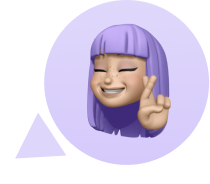
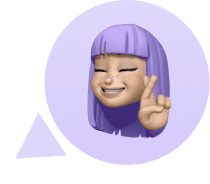
feature pointer

diff --git a/src/styles/_feature.css b/src/styles/_feature.css
@@ -50,7 +50,7 @@
         top: 24px;
         width: 109px;
         height: 106px;
-        background-image: url("../images/feature-pointer.png");
+        background-image: url("../images/feature-pointer-desktop.png");
         background-size: contain;
         background-repeat: no-repeat;
         background-position: center center;
@@ -58,10 +58,18 @@
 
     @media (min-resolution: 2dppx) {
         .feature--pointed::after {
-            background-image: url("../images/feature-pointer@2x.png");
+            background-image: url("../images/feature-pointer-desktop@2x.png");
         }
     }
 
+    .feature--pointed::after {
+        background-image: image-set(
+            url("../images/feature-pointer-desktop@2x.avif") type("image/avif") 2x,
+            url("../images/feature-pointer-desktop.avif") type("image/avif") 1x,
+            url("../images/feature-pointer-desktop@2x.webp") type("image/webp") 2x,
+            url("../images/feature-pointer-desktop.webp") type("image/webp") 1x
+        );
+    }
 
 
 @media (max-width: 599px) {
@@ -130,4 +138,14 @@
                 background-image: url("../images/feature-pointer-smartphone@2x.png");
             }
         }
+
+        .feature--pointed::after {
+            background-image: image-set(
+                url("../images/feature-pointer-smartphone@2x.avif") type("image/avif") 2x,
+                url("../images/feature-pointer-smartphone.avif") type("image/avif") 1x,
+                url("../images/feature-pointer-smartphone@2x.webp") type("image/webp") 2x,
+                url("../images/feature-pointer-smartphone.webp") type("image/webp") 1x
+            );
+        }
+
 }
